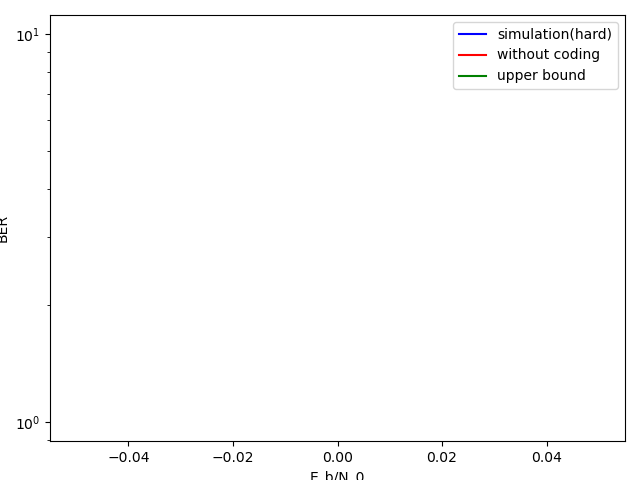
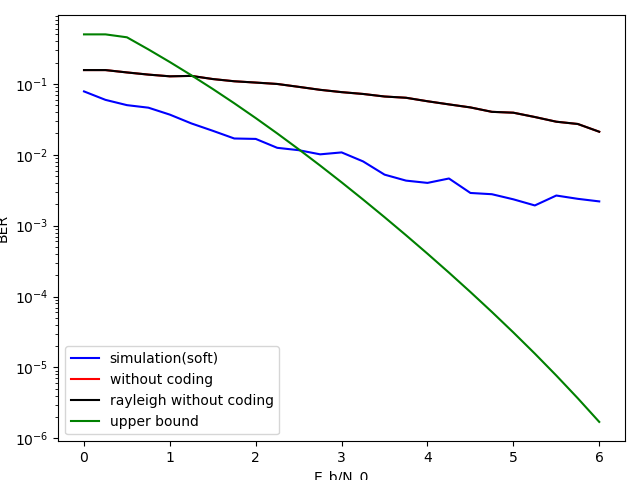
strange result

diff --git a/main.py b/main.py
@@ -1,3 +1,5 @@
+#軟判定
+from tkinter import LEFT
 from turtle import color
 import numpy as np
 import csv
@@ -10,7 +12,7 @@ from scipy import special
 
 S_REG = 3  # レジスタ数(前後半共通)
 LENGTH = 259  # 符号長
-TEST = 1  # テスト回数
+TEST = 100  # テスト回数
 OUT_BITS = 2  # 後半組は3
 OUT_LEN = LENGTH * OUT_BITS #777
 K = S_REG + 1  # 拘束長は4(前後半共通)
@@ -30,7 +32,7 @@ def hamming(s1, s2):
     return sum(map(operator.xor, s1, s2))
   
 def distance(s1,s2):
-    return  sum(abs(s1 - s2))
+    return  np.dot(s1,s2)
 
 
 def convolutional_encoder(data, state):
@@ -45,8 +47,13 @@ def combinations_count(n, r):
 
 
 # 初期化
-tdata = rdata = np.zeros((TEST, LENGTH), dtype=float)
-tcode = rcode =  rayleigh =  np.zeros((TEST, OUT_LEN), dtype=float)
+tdata =  np.zeros((TEST, LENGTH), dtype=int)
+rdata =  np.zeros((TEST, LENGTH), dtype=int)
+tcode =  np.zeros((TEST, OUT_LEN), dtype=int)
+receive =  np.zeros((TEST, OUT_LEN), dtype=float)
+# TODO レイリーチャネルの生成
+h_channel = np.random.rayleigh(scale = 1,size = (TEST,OUT_LEN))
+h_nocode = np.random.rayleigh(scale = 1,size = (TEST,LENGTH))
 state = 0
 snr_list = []
 ber_list = []
@@ -62,17 +69,17 @@ p_b_list = []
 
 
 # 各時間，各状態において，ハミング距離を記録する
-# h[状態][時刻]
-h = 10000 * np.ones((STATE_NUM, LENGTH + 1), dtype=float)
-h[0][0] = 0
+# metric[状態][時刻]
+metric = 10000 * np.ones((STATE_NUM, LENGTH + 1), dtype=float)
+metric[0][0] = 0
 ##各時間(260)，各状態(8)へのパス(2;どの状態からどの入力)を記録する
 # path[状態][時刻][[前状態,入力]]
-path = np.zeros((STATE_NUM, LENGTH, 2), dtype=float)
+path = np.zeros((STATE_NUM, LENGTH, 2), dtype=int)
 transmit = receive = np.zeros((TEST, OUT_LEN))
-nocode_transmit = nocode_receive = nocode_demo = np.zeros((TEST, LENGTH))
+nocode_transmit = nocode_receive = nocode_demo = nocode_rayleigh_recieve = nocode_rayleith_demo= np.zeros((TEST, LENGTH))
 # 状態と入力が決まると，出力が決まる3次元配列
 # output[状態][入力][出力]
-output = np.zeros((STATE_NUM, 2, OUT_BITS), dtype=float)
+output = np.zeros((STATE_NUM, 2, OUT_BITS), dtype=int)
 output[0, 0] = [0, 0]
 output[0, 1] = [1, 1]
 output[1, 0] = [1, 1]
@@ -95,7 +102,7 @@ file_path = "./test.csv"  # CSVの書き込みpath．任意で変えて．
 
 # tdata: 符号化前の送信データ transmission
 # tcode: 符号化後の送信データ
-# rdata: 復号化前の受信データ recieve
+# rdata: 復号化前の受信データ receive
 # rcode: 復号化後の受信データ
 # transmit: 送信信号
 # receive: 受信信号
@@ -114,11 +121,15 @@ if __name__ == "__main__":
         rdata = np.zeros((TEST, LENGTH), dtype=float)
 
         # 終端ビット系列の付加h
-        end = np.zeros((TEST, S_REG), dtype=float)
+        end = np.zeros((TEST, S_REG), dtype=int)
         tdata = np.append(tdata, end, axis=1)
 
         # 畳み込み符号化
         for i in range(TEST):
+            
+            
+            
+            
             for k in range(OUT_LEN):
                 test = (randn(1, 1) + 1j * randn(1, 1)) * 1 / np.sqrt(2)
                 
@@ -137,12 +148,12 @@ if __name__ == "__main__":
         nocode_transmit[tdata == 1] = 1
 
         # 伝送
-        receive = rayleigh * transmit + awgn(SNRdB, (TEST, OUT_LEN))
+        receive = h_channel * transmit + awgn(SNRdB, (TEST, OUT_LEN))
         nocode_receive = nocode_transmit + awgn(SNRdB, (TEST, LENGTH))
+        nocode_rayleith_demo = h_nocode * nocode_transmit+ awgn(SNRdB,(TEST,LENGTH))
 
         # BPSK復調
         #rcode[receive < 0] = 0
-        #rcode[receive >= 0] = 1
 
         nocode_demo[nocode_receive < 0] = 0
         nocode_demo[nocode_receive >= 0] = 1
@@ -151,28 +162,29 @@ if __name__ == "__main__":
         # ビタビ復号
         for i in range(TEST):
             for j in range(LENGTH):
+                # TODO メトリックの書き換え
                 r_pair = [0] * OUT_BITS
 
-                r_pair = np.append(rcode[i][2 * j], rcode[i][2 * j + 1])
+                r_pair = np.append(receive[i][2 * j], receive[i][2 * j + 1])
 
                 if j == 0:
-                    h[0][0] = 0
-                    h[0][1] = h[0][0] + distance(output[0][0], r_pair)
-                    h[1][1] = h[0][0] + distance(output[0][1], r_pair)
+                    metric[0][0] = 0
+                    metric[0][1] = metric[0][0] + distance(output[0][0], r_pair)
+                    metric[1][1] = metric[0][0] + distance(output[0][1], r_pair)
 
-                    # h[0][2] = h[0][1] + distance(output[0][0], r_pair)
-                    # h[1][2] = h[0][1] + distance(output[0][1], r_pair)
-                    # h[2][2] = h[1][1] + distance(output[1][0], r_pair)
-                    # h[3][2] = h[1][1] + distance(output[1][1], r_pair)
+                    # metric[0][2] = metric[0][1] + distance(output[0][0], r_pair)
+                    # metric[1][2] = metric[0][1] + distance(output[0][1], r_pair)
+                    # metric[2][2] = metric[1][1] + distance(output[1][0], r_pair)
+                    # metric[3][2] = metric[1][1] + distance(output[1][1], r_pair)
 
-                    # h[0][3] = h[0][2] + distance(output[0][0], r_pair)
-                    # h[1][3] = h[0][2] + distance(output[0][1], r_pair)
-                    # h[2][3] = h[1][2] + distance(output[1][0], r_pair)
-                    # h[3][3] = h[1][2] + distance(output[1][1], r_pair)
-                    # h[4][3] = h[2][2] + distance(output[2][0], r_pair)
-                    # h[5][3] = h[2][2] + distance(output[2][1], r_pair)
-                    # h[6][3] = h[3][3] + distance(output[3][0], r_pair)
-                    # h[7][3] = h[3][3] + distance(output[3][1], r_pair)
+                    # metric[0][3] = metric[0][2] + distance(output[0][0], r_pair)
+                    # metric[1][3] = metric[0][2] + distance(output[0][1], r_pair)
+                    # metric[2][3] = metric[1][2] + distance(output[1][0], r_pair)
+                    # metric[3][3] = metric[1][2] + distance(output[1][1], r_pair)
+                    # metric[4][3] = metric[2][2] + distance(output[2][0], r_pair)
+                    # metric[5][3] = metric[2][2] + distance(output[2][1], r_pair)
+                    # metric[6][3] = metric[3][3] + distance(output[3][0], r_pair)
+                    # metric[7][3] = metric[3][3] + distance(output[3][1], r_pair)
 
                 else:
 
@@ -180,114 +192,114 @@ if __name__ == "__main__":
 
                     # template
 
-                    # if (h[状態a][j-1]+distance(output[状態a][入力a],r_pair)) <(h[状態b][j-1] + distance(output[状態b][入力b],r_pair)):
-                    #     h[2][j] = 前者
+                    # if (metric[状態a][j-1]+distance(output[状態a][入力a],r_pair)) <(metric[状態b][j-1] + distance(output[状態b][入力b],r_pair)):
+                    #     metric[2][j] = 前者
                     #     path[2][j]  = [状態a,入力a]
 
                     # else:
-                    #     h[2][j] =後者
+                    #     metric[2][j] =後者
                     #     path[2][j]  =[状態b,入力b]
 
                     # 状態0
                     # 左辺の方がパスメトリック小さい場合
-                    if (h[0][j - 1] + distance(output[0][0], r_pair)) < (
-                        h[4][j - 1] + distance(output[4][0], r_pair)
+                    if (metric[0][j - 1] + distance(output[0][0], r_pair)) > (
+                        metric[4][j - 1] + distance(output[4][0], r_pair)
                     ):
-                        h[0][j] = h[0][j - 1] + distance(
+                        metric[0][j] = metric[0][j - 1] + distance(
                             output[0][0], r_pair
                         )  # ハミング距離更新．(状態0時刻jのハミング距離を求める)
                         path[0][j] = [0, 0]  # パスの記録(状態0からの入力0)
 
                     # 右辺の方がパスメトリック小さい場合
                     else:
-                        h[0][j] = h[4][j - 1] + distance(
+                        metric[0][j] = metric[4][j - 1] + distance(
                             output[4][0], r_pair
                         )  # ハミング距離更新
                         path[0][j] = [4, 0]  # パスの記録，(状態4からの入力0)
 
                     # 状態1
-                    if (h[0][j - 1] + distance(output[0][1], r_pair)) < (
-                        h[4][j - 1] + distance(output[4][1], r_pair)
+                    if (metric[0][j - 1] + distance(output[0][1], r_pair)) > (
+                        metric[4][j - 1] + distance(output[4][1], r_pair)
                     ):  # 状態1時刻jのハミング距離を求める
-                        h[1][j] = h[0][j - 1] + distance(output[0][1], r_pair)
+                        metric[1][j] = metric[0][j - 1] + distance(output[0][1], r_pair)
                         path[1][j] = [0, 1]  # 状態1に来るパスは，状態0からの入力1
 
                     else:
-                        h[1][j] = h[4][j - 1] + distance(
+                        metric[1][j] = metric[4][j - 1] + distance(
                             output[4][1], r_pair
                         )  # 状態1時刻jのハミング距離を求める
                         path[1][j] = [4, 1]  # 状態1に来るパスは，状態4からの入力1
 
                     ##状態2
 
-                    if (h[1][j - 1] + distance(output[1][0], r_pair)) < (
-                        h[5][j - 1] + distance(output[5][0], r_pair)
+                    if (metric[1][j - 1] + distance(output[1][0], r_pair)) > (
+                        metric[5][j - 1] + distance(output[5][0], r_pair)
                     ):
-                        h[2][j] = h[1][j - 1] + distance(output[1][0], r_pair)
+                        metric[2][j] = metric[1][j - 1] + distance(output[1][0], r_pair)
                         path[2][j] = [1, 0]
 
                     else:
-                        h[2][j] = h[5][j - 1] + distance(output[5][0], r_pair)
+                        metric[2][j] = metric[5][j - 1] + distance(output[5][0], r_pair)
                         path[2][j] = [5, 0]
 
                     ##状態3
 
-                    if (h[1][j - 1] + distance(output[1][1], r_pair)) < (
-                        h[5][j - 1] + distance(output[5][1], r_pair)
+                    if (metric[1][j - 1] + distance(output[1][1], r_pair)) > (
+                        metric[5][j - 1] + distance(output[5][1], r_pair)
                     ):
-                        h[3][j] = h[1][j - 1] + distance(output[1][1], r_pair)
+                        metric[3][j] = metric[1][j - 1] + distance(output[1][1], r_pair)
                         path[3][j] = [1, 1]
 
                     else:
-                        h[3][j] = h[5][j - 1] + distance(output[5][1], r_pair)
+                        metric[3][j] = metric[5][j - 1] + distance(output[5][1], r_pair)
                         path[3][j] = [5, 1]
 
                     ##状態4
 
-                    if (h[2][j - 1] + distance(output[2][0], r_pair)) < (
-                        h[6][j - 1] + distance(output[6][0], r_pair)
+                    if (metric[2][j - 1] + distance(output[2][0], r_pair)) > (
+                        metric[6][j - 1] + distance(output[6][0], r_pair)
                     ):
-                        h[4][j] = h[2][j - 1] + distance(output[2][0], r_pair)
+                        metric[4][j] = metric[2][j - 1] + distance(output[2][0], r_pair)
                         path[4][j] = [2, 0]
 
                     else:
-                        h[4][j] = h[6][j - 1] + distance(output[6][0], r_pair)
+                        metric[4][j] = metric[6][j - 1] + distance(output[6][0], r_pair)
                         path[4][j] = [6, 0]
 
                     ##状態5
 
-                    if (h[2][j - 1] + distance(output[2][1], r_pair)) < (
-                        h[6][j - 1] + distance(output[6][1], r_pair)
+                    if (metric[2][j - 1] + distance(output[2][1], r_pair)) > (
+                        metric[6][j - 1] + distance(output[6][1], r_pair)
                     ):
-                        h[5][j] = h[2][j - 1] + distance(output[2][1], r_pair)
+                        metric[5][j] = metric[2][j - 1] + distance(output[2][1], r_pair)
                         path[5][j] = [2, 1]
 
                     else:
-                        h[5][j] = h[6][j - 1] + distance(output[6][1], r_pair)
+                        metric[5][j] = metric[6][j - 1] + distance(output[6][1], r_pair)
                         path[5][j] = [6, 1]
 
                     ##状態6
 
-                    if (h[3][j - 1] + distance(output[3][0], r_pair)) < (
-                        h[7][j - 1] + distance(output[7][0], r_pair)
+                    if (metric[3][j - 1] + distance(output[3][0], r_pair)) > (
+                        metric[7][j - 1] + distance(output[7][0], r_pair)
                     ):
-                        h[6][j] = h[3][j - 1] + distance(output[3][0], r_pair)
+                        metric[6][j] = metric[3][j - 1] + distance(output[3][0], r_pair)
                         path[6][j] = [3, 0]
 
                     else:
-                        h[6][j] = h[7][j - 1] + distance(output[7][0], r_pair)
+                        metric[6][j] = metric[7][j - 1] + distance(output[7][0], r_pair)
                         path[6][j] = [7, 0]
 
                     ##状態7
 
-                    if (h[3][j - 1] + distance(output[3][1], r_pair)) < (
-                        h[7][j - 1] + distance(output[7][1], r_pair)
+                    if (metric[3][j - 1] + distance(output[3][1], r_pair)) > (
+                        metric[7][j - 1] + distance(output[7][1], r_pair)
                     ):
-                        h[7][j] = h[3][j - 1] + distance(output[3][1], r_pair)
+                        metric[7][j] = metric[3][j - 1] + distance(output[3][1], r_pair)
                         path[7][j] = [3, 1]
 
                     else:
-                        h[7][j] = h[7][j - 1] + distance(output[7][1], r_pair)
+                        metric[7][j] = metric[7][j - 1] + distance(output[7][1], r_pair)
                         path[7][j] = [7, 1]
 
                 # path[0][0] = [0, 0]
@@ -329,26 +341,14 @@ if __name__ == "__main__":
         BER = error / (ok + error)
         NOCODE_BER = nocode_error / (nocode_ok + nocode_error)
 
-        # 理論上界計算
+        #TODO 軟判定理論上界
+        # 硬判定理論上界計算
         p_k = [0] * 14  # 後半組は18にする
 
         p = 1 / 2 * special.erfc(np.sqrt(1 / 2 * 10 ** (SNRdB / 10)))
 
         for k in range(6, 14):  # 後半組はrange(10,18)
-            if k % 2 == 0:
-                for e in range(k // 2 + 1, k):
-                    p_k[k] = combinations_count(k, e) * p ** (e) * (1 - p) ** (k - e)
-                    residual = (
-                        0.5
-                        * combinations_count(k, k // 2)
-                        * p ** (k // 2)
-                        * (1 - p) ** (k // 2)
-                    )
-                    p_k[k] += residual
-            else:
-                for e in range((k + 1) // 2, k):
-                    p_k[k] = combinations_count(k, e) * p ** (e) * (1 - p) ** (k - e)
-
+            p_k[k] = 1 / 2 * special.erfc(np.sqrt(k* (1 / 2) * 10 ** (SNRdB / 10)))
         p_b = 0
 
         p_b = (
@@ -388,8 +388,9 @@ if __name__ == "__main__":
 
 
 fig = plt.figure()
-plt.plot(snr_list, ber_list, label="simulation(hard)", color="blue")
+plt.plot(snr_list, ber_list, label="simulation(soft)", color="blue")
 plt.plot(snr_list, nocode_ber_list, label="without coding", color="red")
+plt.plot(snr_list, nocode_ber_list, label="rayleigh without coding", color="black")
 plt.plot(snr_list, p_b_list, label="upper bound", color="green")
 
 

diff --git a/sample.py b/sample.py
@@ -1,0 +1,11 @@
+import math
+import numpy as np
+def distance(s1,s2):
+    return  np.dot(s1,s2)
+
+
+s1 = [1,1]
+
+s2 = [0.4,0.7]
+
+print(distance(s1,s2))
